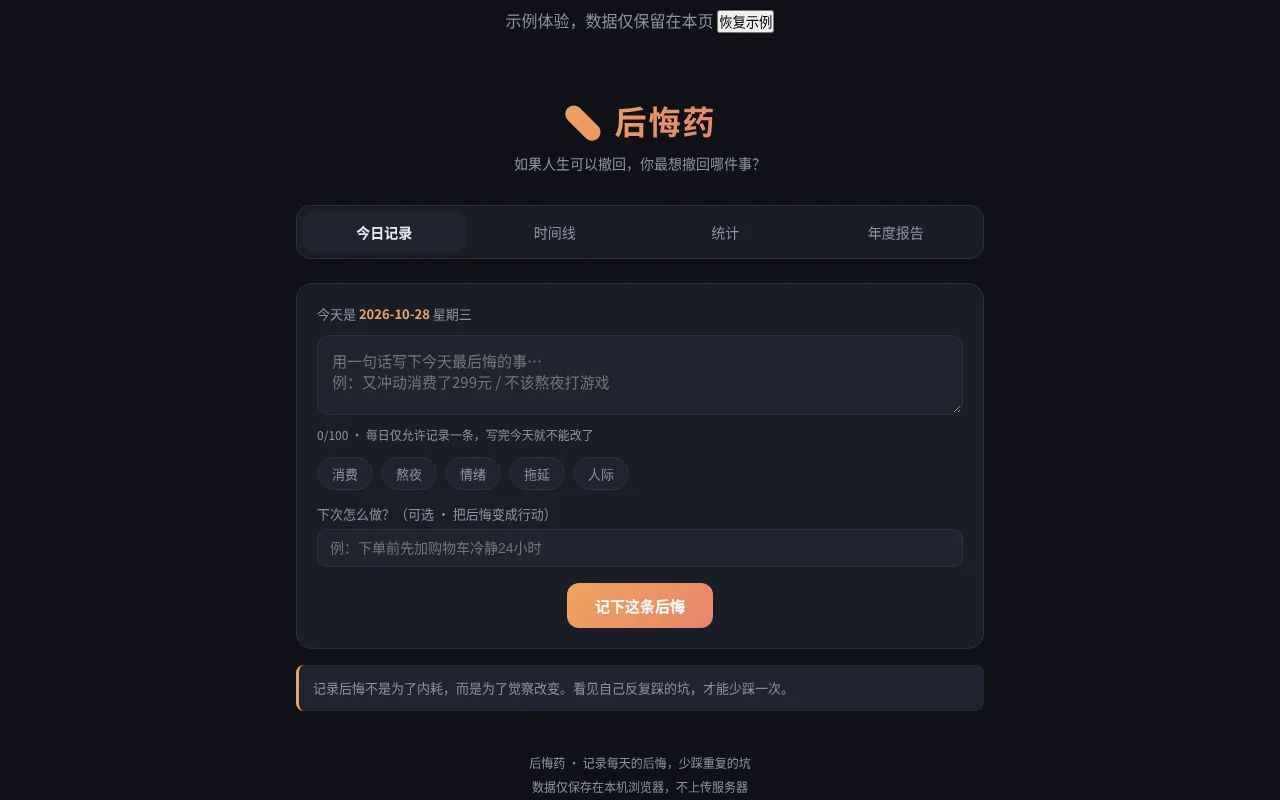
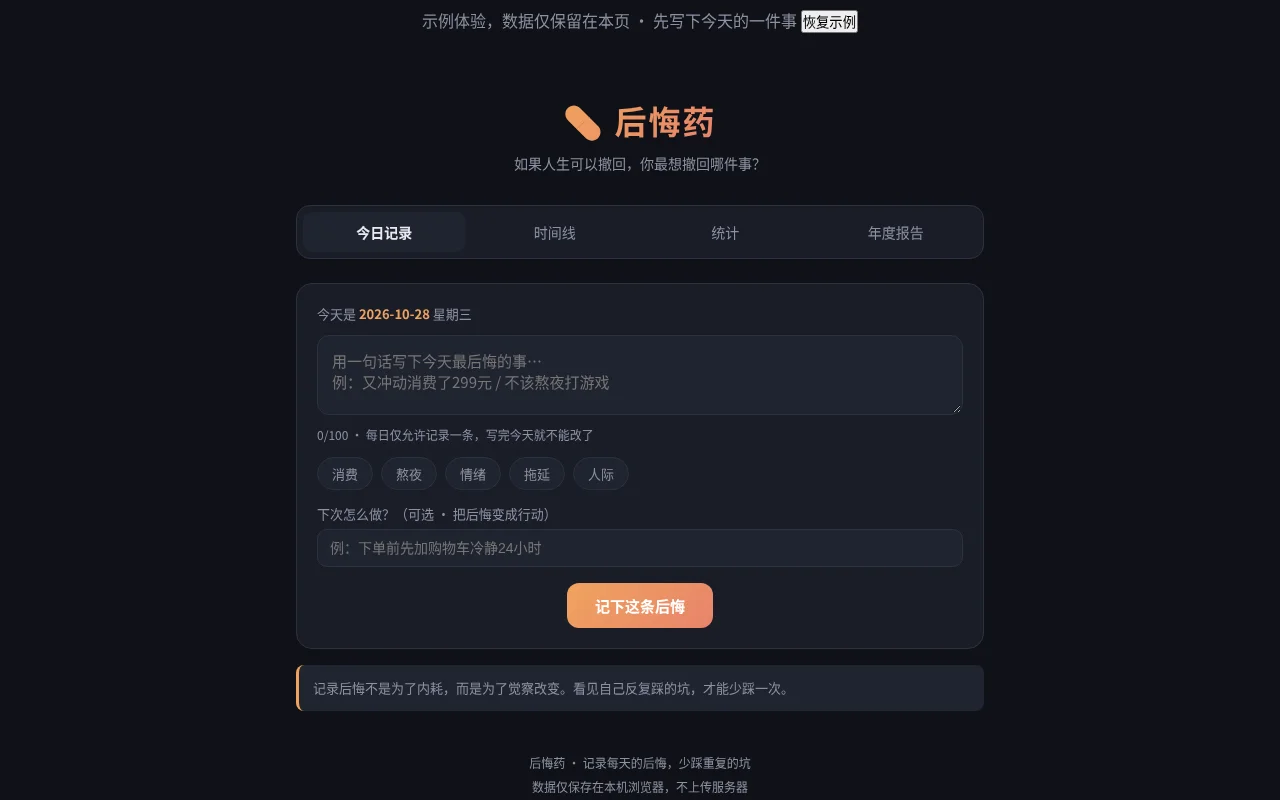
Add sample records to 后悔药 preview

Changed region(s): [[0.3438, 0.0, 0.6875, 0.0625]]

diff --git a/wb1024-c274-bbb27538/showcase/preview.html b/wb1024-c274-bbb27538/showcase/preview.html
@@ -78,7 +78,7 @@
 </style>
 </head>
 <body data-page-node-id="YG1ajLskyhddC4X0YwD5XT">
-<div style="text-align:center;color:#8b91a3;padding:8px">示例体验，数据仅保留在本页 <button id="resetDemo">恢复示例</button></div><div data-page-node-id="szO7lNJ1t6WGPJb7Tl5Qgt" class="wrap">
+<div style="text-align:center;color:#8b91a3;padding:8px">示例体验，数据仅保留在本页 · 先写下今天的一件事 <button id="resetDemo">恢复示例</button></div><div data-page-node-id="szO7lNJ1t6WGPJb7Tl5Qgt" class="wrap">
   <header data-page-node-id="f2q9sbp9UjNAYaGrls0v1j">
     <h1 data-page-node-id="HN66CoSuBNPEBPQCO7dpg5"><span data-page-node-id="XfPCeFyAQUcP29NMOnWlHS" class="pill"><!--pnid:r3DKzysd8DmhGiChJKmOLl-->💊 后悔药</span></h1>
     <div data-page-node-id="A4VoekHjOZsgAL4uj0Rij9" class="slogan"><!--pnid:L6aLXXBRXP5ME8vNWSVsdw-->如果人生可以撤回，你最想撤回哪件事？</div>
@@ -163,6 +163,12 @@ const STORE_KEY = "houhuiyao_unlocked";
 const todayStr = () => { const d=new Date(); return d.getFullYear()+"-"+String(d.getMonth()+1).padStart(2,"0")+"-"+String(d.getDate()).padStart(2,"0"); };
 /* 安全存储层：沙箱 iframe 下 localStorage 可能被禁用，自动降级到内存存储 */
 const _mem={};
+function sampleRecords(){
+  const previous = n => { const d=new Date(); d.setDate(d.getDate()-n); return d.getFullYear()+"-"+String(d.getMonth()+1).padStart(2,"0")+"-"+String(d.getDate()).padStart(2,"0"); };
+  return [{date:previous(1),text:"昨晚刷手机太晚",tag:1,next:"睡前把手机放远一点",ts:Date.now()-86400000},{date:previous(2),text:"冲动买了不需要的东西",tag:0,next:"先冷静一天再决定",ts:Date.now()-172800000}];
+}
+function resetSamples(){ for(const k in _mem) delete _mem[k]; _mem[KEY]=JSON.stringify(sampleRecords()); }
+resetSamples();
 function _get(k){ return (k in _mem)?_mem[k]:null; }
 function _set(k,v){ _mem[k]=v; }
 function _del(k){ delete _mem[k]; }
@@ -243,7 +249,12 @@ function renderTimeline(){
     <span class="r-tag share" style="cursor:pointer" data-d="${r.date}">卡片</span></div>
   </div>`).join("");
   list.querySelectorAll(".del").forEach(b=>b.onclick=()=>{
-    if(true){ save(records().filter(r=>r.date!==b.dataset.d)); renderTimeline(); }
+    const date=b.dataset.d;
+    const bg=document.createElement("div"); bg.className="modal-bg show";
+    bg.innerHTML='<div class="card" style="max-width:360px;width:100%;text-align:center"><p>确定删除 '+date+' 这条记录吗？</p><div class="center"><button class="btn" data-confirm>删除</button> <button class="btn ghost" data-cancel>取消</button></div></div>';
+    document.body.appendChild(bg);
+    bg.querySelector("[data-confirm]").onclick=()=>{save(records().filter(r=>r.date!==date));bg.remove();renderTimeline();renderToday()};
+    bg.querySelector("[data-cancel]").onclick=()=>bg.remove();
   });
   list.querySelectorAll(".share").forEach(b=>b.onclick=()=>openCard(records().find(r=>r.date===b.dataset.d)));
 }
@@ -367,7 +378,9 @@ document.getElementById("dlCard").onclick=()=>{
 document.getElementById("closeModal").onclick=()=>document.getElementById("cardModal").classList.remove("show");
 document.getElementById("cardModal").onclick=e=>{ if(e.target.id==="cardModal") e.target.classList.remove("show"); };
 
-document.getElementById("resetDemo").onclick=()=>{for(const k in _mem) delete _mem[k]; selTag=-1;curFilter=-1; inp.value="";document.getElementById("inputNext").value="";document.getElementById("charCount").textContent="0";picker.querySelectorAll(".tag").forEach(x=>x.classList.remove("sel"));document.querySelector("[data-tab=today]").click();renderToday();toast("已恢复示例");};
+document.getElementById("resetDemo").onclick=()=>{resetSamples(); selTag=-1;curFilter=-1; inp.value="";document.getElementById("inputNext").value="";document.getElementById("charCount").textContent="0";picker.querySelectorAll(".tag").forEach(x=>x.classList.remove("sel"));document.querySelector("[data-tab=today]").click();renderToday();toast("已恢复示例");};
+["exportMd","exportCsv","dlCard"].forEach(id=>{const b=document.getElementById(id);b.disabled=true;b.title="安装后可下载";});
+const note=document.createElement("div"); note.className="hint"; note.textContent="安装后可导出文件和保存卡片"; document.querySelector("#tab-stats .center").appendChild(note);
 renderToday();
 </script>
 </body>
